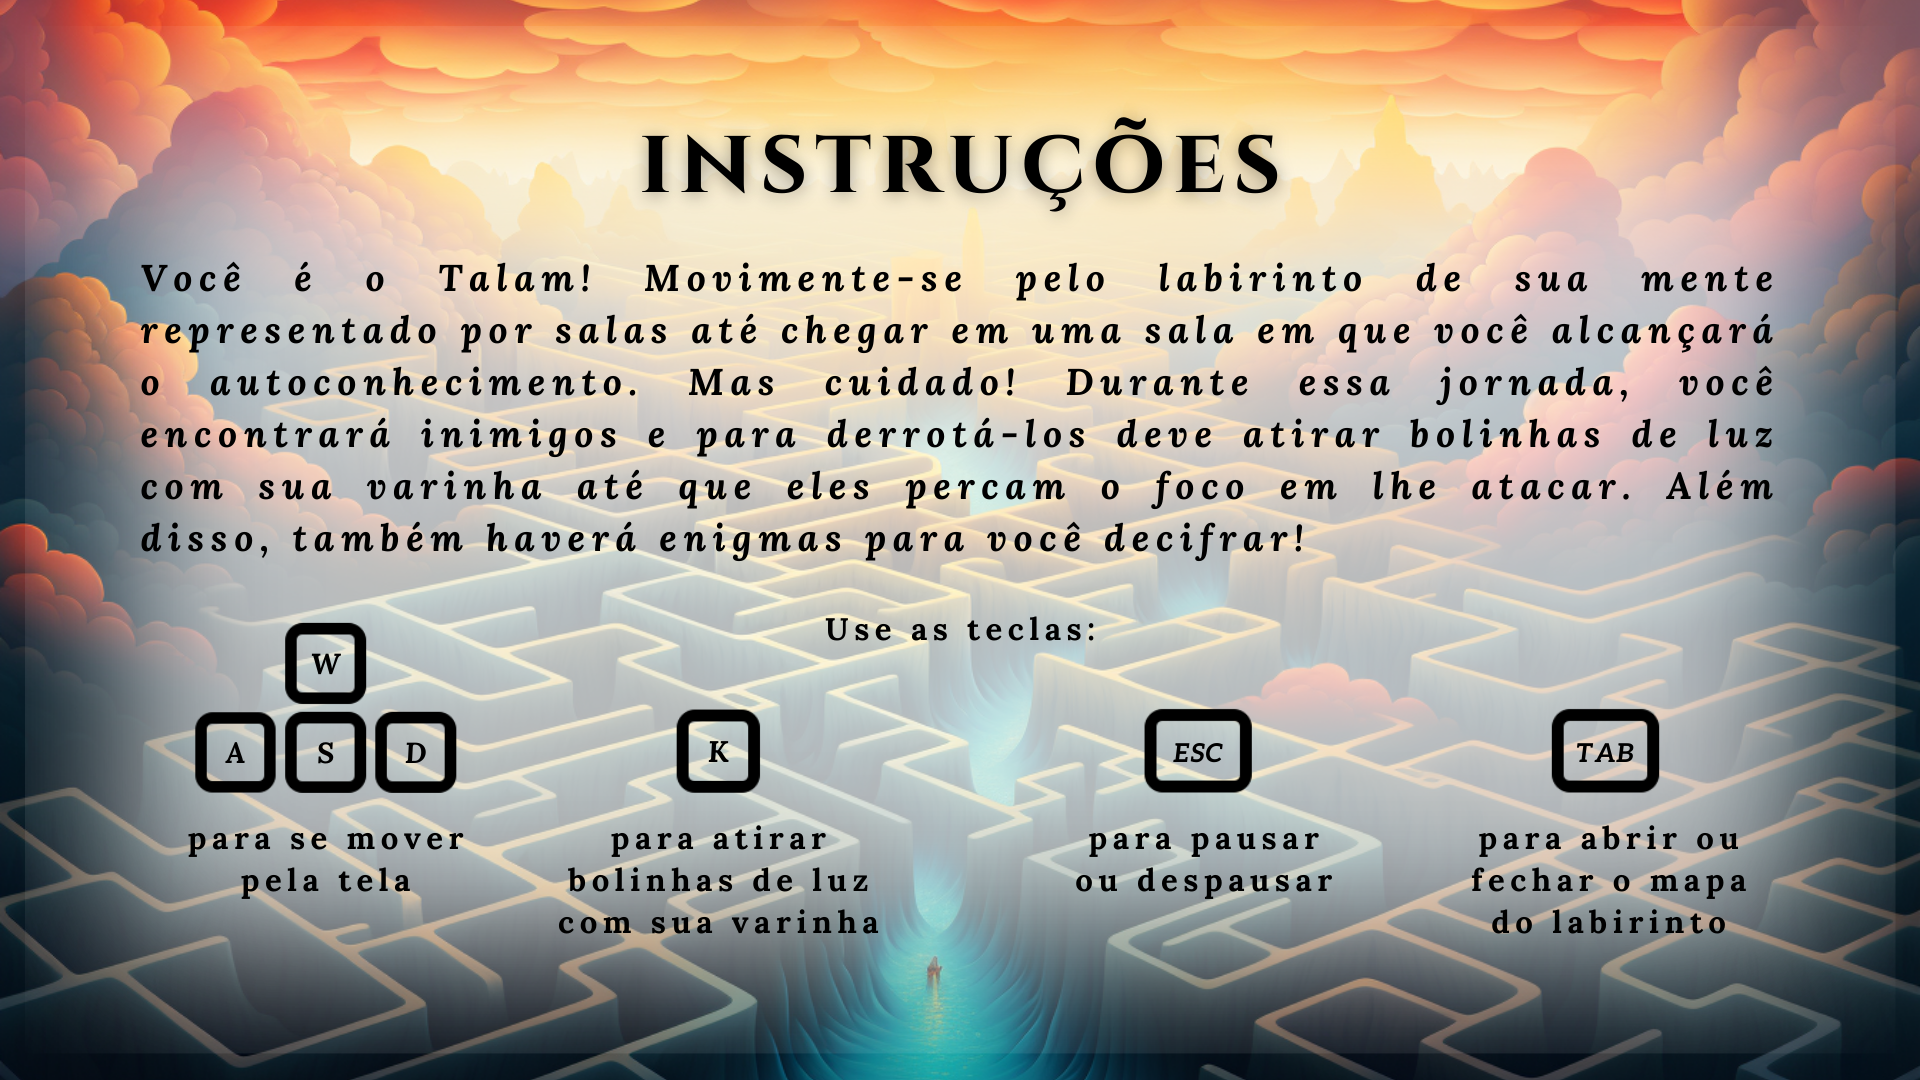
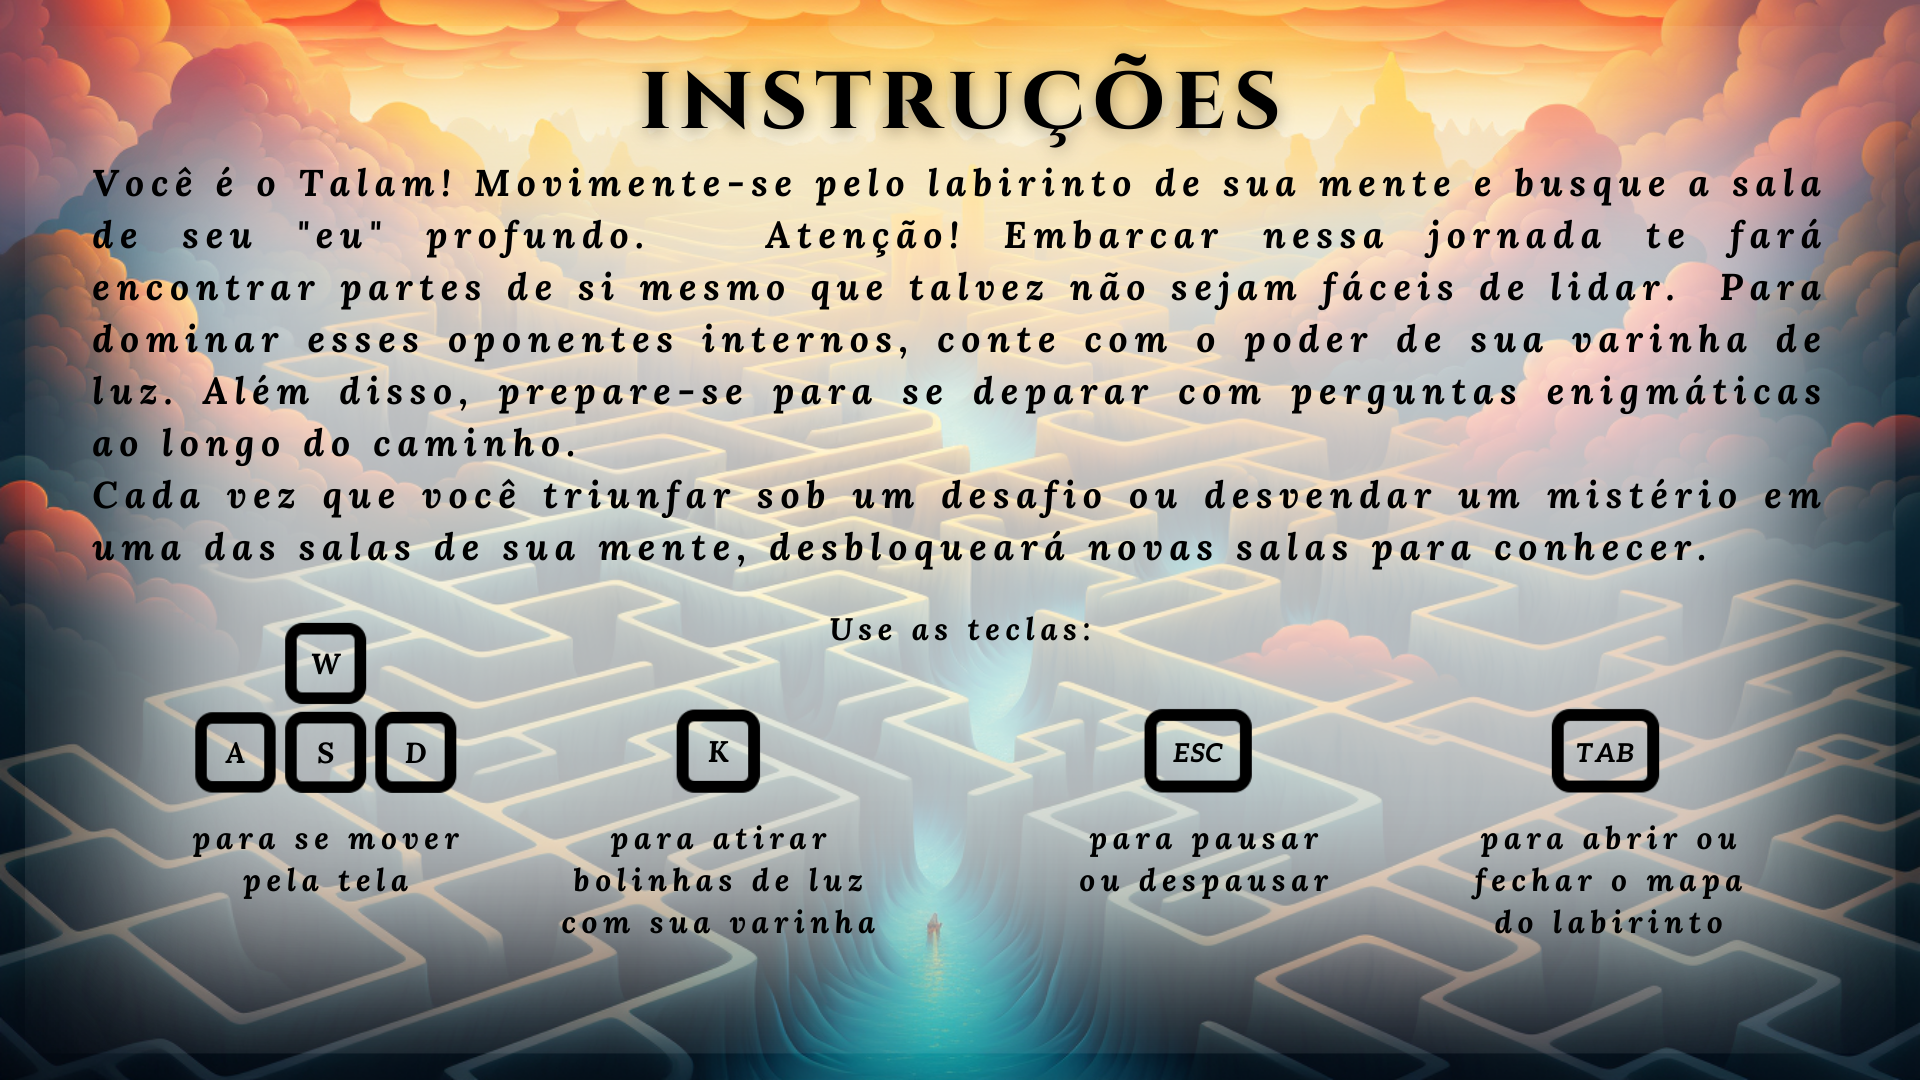
instrucoes e creditos imagens atualizadas

diff --git a/prototipo/menu/creditos.py b/prototipo/menu/creditos.py
@@ -4,28 +4,16 @@ from basico.evento import Evento
 from .botao import Botao
 
 class Creditos(Entidade):
-    def __init__(self, tela):
+    def __init__(self, tela, arq_im_fundo, arq_botao_voltar):
         super().__init__(tela)
-        self.__titulo = DesenhavelTexto(tela, 'Créditos', 75/1080)
-        self.__desenvolvedores = [DesenhavelTexto(tela, 'Jogo desenvolvido por:'),
-                                  DesenhavelTexto(tela, '- Bianca Mazzuco Verzola'),
-                                  DesenhavelTexto(tela,  '- Davi Menegaz Junkes'),
-                                  DesenhavelTexto(tela, '- Felipe Elton Pazini Savi'),
-                                  DesenhavelTexto(tela, '-  Rita Louro Barbosa')]
-
-        dimens_botao_voltar = (self.telaW()/8, self.telaH()/10)
-        self.__botao_voltar = Botao(tela, (self.telaW()/2, self.telaH()*9/10),
+        self.__im_fundo = DesenhavelImagem(tela, arq_im_fundo, (self.telaW(), self.telaH()))
+        dimens_botao_voltar = (self.telaW()/8, self.telaH()/12)
+        self.__botao_voltar = Botao(tela, (self.telaW()/2, self.telaH()*12/13),
                                dimens_botao_voltar, 
-                               DesenhavelRetangulo(tela, (153, 76, 0), dimens_botao_voltar), 'Voltar')
+                               DesenhavelImagem(tela, arq_botao_voltar, dimens_botao_voltar), '')
 
     def desenhar(self):
-        self.__titulo.desenhar((self.telaW()/2, self.telaH()/10))
-        espaco_linha = self.__titulo.espaco_linha*2
-
-        for superficie in self.__desenvolvedores:
-            superficie.desenharSuperiorDireito((self.telaW()/10, espaco_linha))
-            espaco_linha += superficie.espaco_linha
-
+        self.__im_fundo.desenhar((self.telaW()/2, self.telaH()/2))
         self.__botao_voltar.desenhar()
 
     def atualizar(self, eventos):

diff --git a/prototipo/menu/menu.py b/prototipo/menu/menu.py
@@ -44,7 +44,8 @@ class Menu(Entidade):
         arq_instrucoes = os.path.join('imagens', 'menu', 'instrucoes.png')
         arq_botao_voltar = os.path.join('imagens', 'botoes', 'voltar.png')
         self.__instrucoes = Instrucoes(tela, arq_instrucoes, arq_botao_voltar)
-        self.__creditos = Creditos(tela)
+        arq_creditos = os.path.join('imagens', 'menu', 'creditos.png')
+        self.__creditos = Creditos(tela, arq_creditos, arq_botao_voltar)
         self.__modo = ModoMenu.TelaPrincipal
         self.__font = pg.font.SysFont("Comic Sans MT", int(250/1080 * self.telaH()))
 
